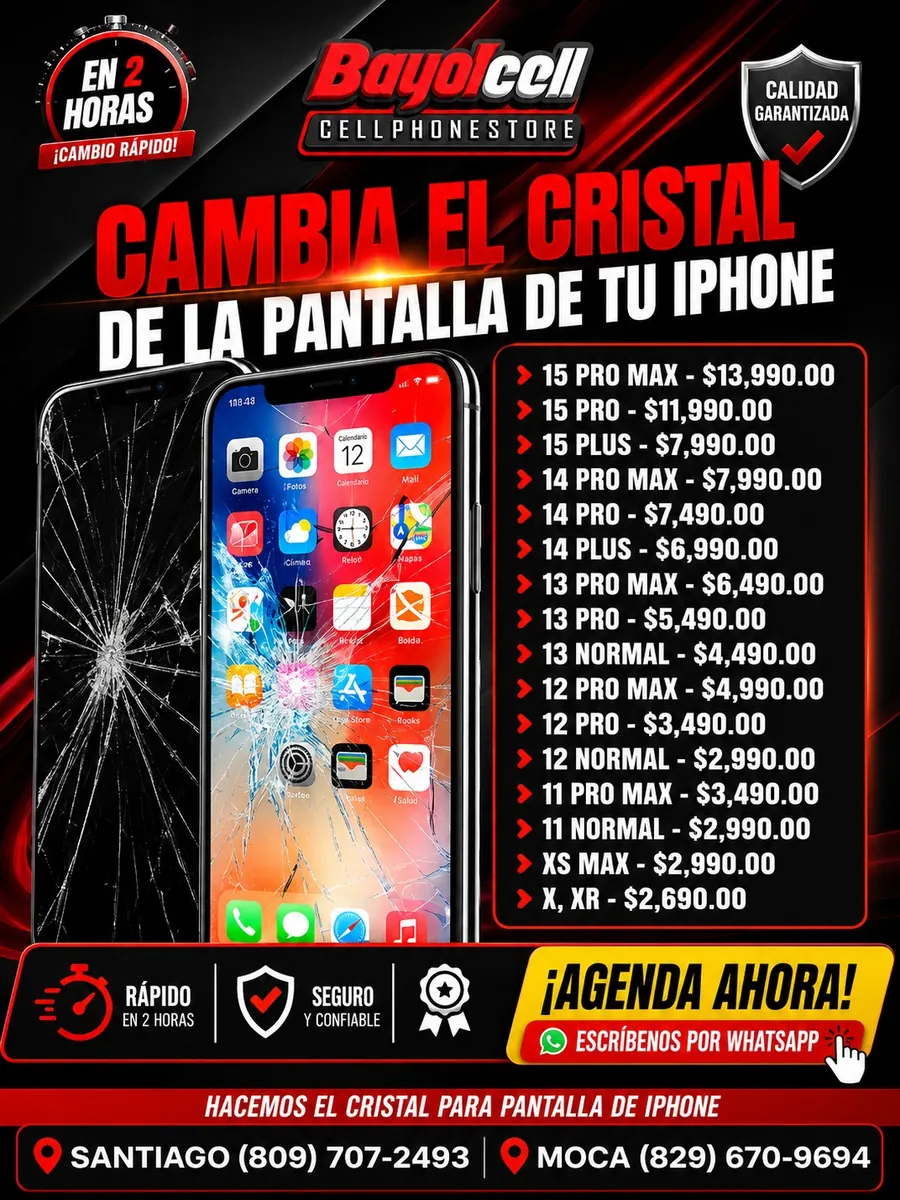
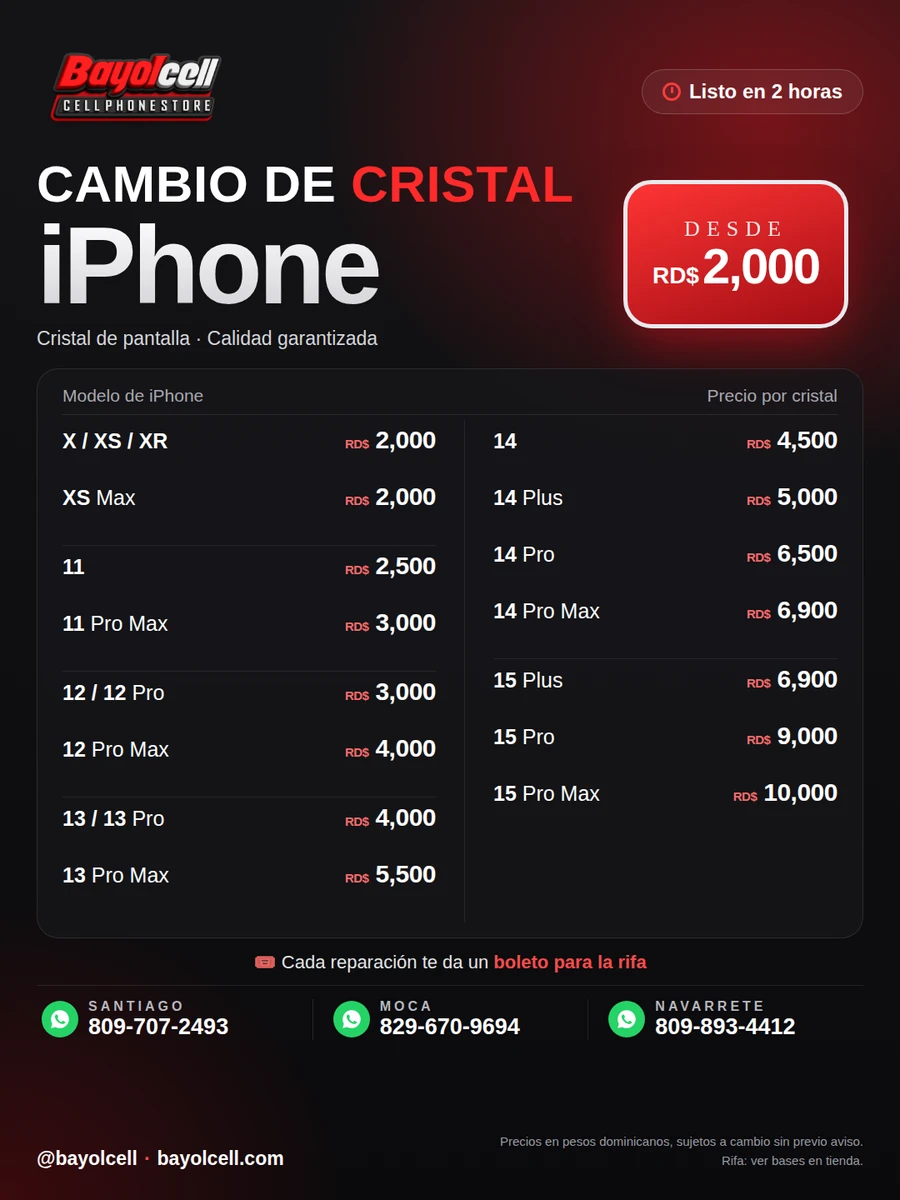
Web: flyer nuevo de cambio de cristal de pantalla (precios del 13 oct, desde RD$2,000)
Claude-Session: https://claude.ai/code/session_01Tbe2UW5X3urrNozQeudZ9D

diff --git a/index.html b/index.html
@@ -768,7 +768,7 @@ html.pd-abierta body{overflow:hidden}
       <div class="ofertas aparece">
         <a class="oferta" href="https://wa.me/18495644791?text=Hola%20Bayol%20Cell%2C%20quiero%20cotizar%20el%20cambio%20de%20bater%C3%ADa" target="_blank" rel="noopener"><img src="assets/reparacion-bateria.webp?v=20261013" width="900" height="1200" alt="Cambio de batería iPhone desde RD$1,000 - precios" loading="lazy" decoding="async"></a>
         <a class="oferta" href="https://wa.me/18495644791?text=Hola%20Bayol%20Cell%2C%20quiero%20cotizar%20el%20cambio%20de%20pantalla" target="_blank" rel="noopener"><img src="assets/reparacion-pantalla.webp?v=20261009" width="900" height="1200" alt="Cambio de pantalla iPhone desde RD$1,000 - precios" loading="lazy" decoding="async"></a>
-        <a class="oferta" href="https://wa.me/18495644791?text=Hola%20Bayol%20Cell%2C%20quiero%20cotizar%20el%20cambio%20del%20cristal%20de%20la%20pantalla" target="_blank" rel="noopener"><img src="assets/reparacion-cristal-frontal.webp" width="900" height="1200" alt="Cambia el cristal de la pantalla - precios" loading="lazy" decoding="async"></a>
+        <a class="oferta" href="https://wa.me/18495644791?text=Hola%20Bayol%20Cell%2C%20quiero%20cotizar%20el%20cambio%20del%20cristal%20de%20la%20pantalla" target="_blank" rel="noopener"><img src="assets/reparacion-cristal-frontal.webp?v=20261014" width="900" height="1200" alt="Cambio de cristal de pantalla iPhone desde RD$2,000 - precios" loading="lazy" decoding="async"></a>
         <a class="oferta" href="https://wa.me/18495644791?text=Hola%20Bayol%20Cell%2C%20quiero%20cotizar%20el%20cambio%20del%20cristal%20trasero" target="_blank" rel="noopener"><img src="assets/reparacion-cristal-trasero.webp?v=20261013" width="900" height="1200" alt="Cristal trasero iPhone desde RD$1,200 - precios" loading="lazy" decoding="async"></a>
       </div>
       <div class="ctas taller-pantalla aparece"><a class="btn btn-rojo" href="tienda.html#pantallas"><i class="ti ti-search" aria-hidden="true"></i> Busca el precio de tu pantalla</a></div>
